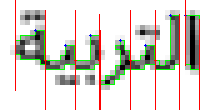
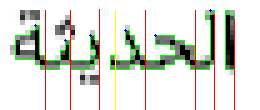
added processing for all contours and fixed upper contour

diff --git a/segmentation/contour.py b/segmentation/contour.py
@@ -5,7 +5,7 @@ import copy
 from PIL import Image
 ## SKEW DETECTION.
 #1- Binarizing the image.
-im_name = "tarbya.png"
+im_name = "hadeesa.png"
 image = cv2.imread(im_name)
 
 
@@ -58,7 +58,7 @@ def segment(image):
 		segmentation_points = []
 
 		cnt = contours[j]
-		print(areas[j])
+		# print(areas[j])
 		epsilon = 0.1*cv2.arcLength(cnt,True)
 		approx = cv2.approxPolyDP(cnt,epsilon,True)
 		# print(cnt)
@@ -92,9 +92,14 @@ def segment(image):
 		splitting_index = 0
 		# print(left)
 		k=0
+		right_reached =False 
 		for i in range(0,len(cnt)):
 			x = cnt[i][0][0]
 			y = cnt[i][0][1]
+			if x == rightmost[0]:
+				right_reached = True
+			if(splitting_index != 0 and not right_reached):
+				continue
 			if x == leftmost[0]:
 				splitting_index = k
 			if y <= base_line and [x,y] not in l:
@@ -154,10 +159,10 @@ def segment(image):
 			# cv2.circle(image,(int(x),int(y)), 1, (255, 0, 0), -1)
 			min_list.append([x,y])
 			
-		threshold = 0
+		threshold = 5
 		for m in maximas:
 			x,y=[list_x[m],list_y[m]]
-			if(y < base_line - threshold):
+			if(y < base_line ):
 				max_list.append([x,y])
 				# cv2.circle(image,(int(x),int(y)),1, (255, 255, 255), -1)
 		min_max=[]
@@ -209,7 +214,7 @@ def segment(image):
 				# cv2.line(image,(int(x),int(y)-50),(int(x),int(y)+50),(0,0,255),1)
 		prev_point = leftmost
 		prev_prev= leftmost
-		avg_char_width = 25
+		avg_char_width = 14
 		avg_char_area = 300
 		x,y =leftmost
 		segmentation_points.append([x,y])
@@ -239,32 +244,35 @@ def segment(image):
 			step = 5
 			print(diff_min)
 			if(diff_min >= avg_char_width ):
-				cv2.line(image,(int(x),int(y)-50),(int(x),int(y)+50),(0,0,255),1)
+				# cv2.line(image,(int(x),int(y)-50),(int(x),int(y)+50),(0,0,255),1)
 				segmentation_points.append([x,y])
 				prev_prev = prev_point
-				prev_point = [x,y]
+				prev_point = s
 			else:
-				# cv2.line(image,(int(x),int(y)-50),(int(x),int(y)+50),(0,255,255),1)
+				cv2.line(image,(int(x),int(y)-50),(int(x),int(y)+50),(0,255,255),1)
 				if(prev_point in segmentation_points):
 					segmentation_points.remove(prev_point)
+				prev_point = s
 		prev_point = leftmost
 		num_points = len(segmentation_points)
-		if leftmost not in segmentation_points:
+		try:
 			x,y =leftmost
+			segmentation_points.index([x,y])
+		except:
 			segmentation_points = [[x,y]] + segmentation_points[0:num_points]
-			print(leftmost)
-			print(segmentation_points)
+			# print(segmentation_points)
 			num_points+=1
-		# print(leftmost)
+		print(leftmost)
+		print(segmentation_points)
 		try:
 			x,y =rightmost
 			segmentation_points.index([x,y])
 		except:
 			segmentation_points.append([x,y])
-			print(rightmost)
-			print(segmentation_points)
+			# print(rightmost)
+			# print(segmentation_points)
 			num_points+=1
-		for i in range(num_points):
+		for i in range(1,num_points):
 
 			# index = min_max.index(segment)
 			# prev = min_max[index -1 ]
@@ -274,18 +282,18 @@ def segment(image):
 			# 	segmentation_points[i][0]=rightmost[0]
 			# 	segmentation_points[i][1]=rightmost[1]
 			segment = segmentation_points[i]
-			print(segment)
+			# print(segment)
 			x = segment[0]
 			y = segment[1]
-			cv2.line(image,(int(x),int(y)-50),(int(x),int(y)+50),(0,0,255),1)
-			if i > 0  and prev_point[0]!= segment[0]:
+			if prev_point[0]!= segment[0]:
+				cv2.line(image,(int(x),int(y)-50),(int(x),int(y)+50),(0,0,255),1)
 				char = image[:,prev_point[0]+1:segment[0]+1]
 				chars.append(char)
 			# print(prev_point[0],segment[0])
 			# print(char)
-				cv2.imwrite(str(i+1)+".png",char)
+				# cv2.imwrite('contour_'+str(j+1)+'char_'+str(i+1)+".png",char)
 			prev_point = segment
-
+	print(len(chars))
 	cv2.imwrite("contoured.png",image)
 	return chars
 cs = segment(image)
